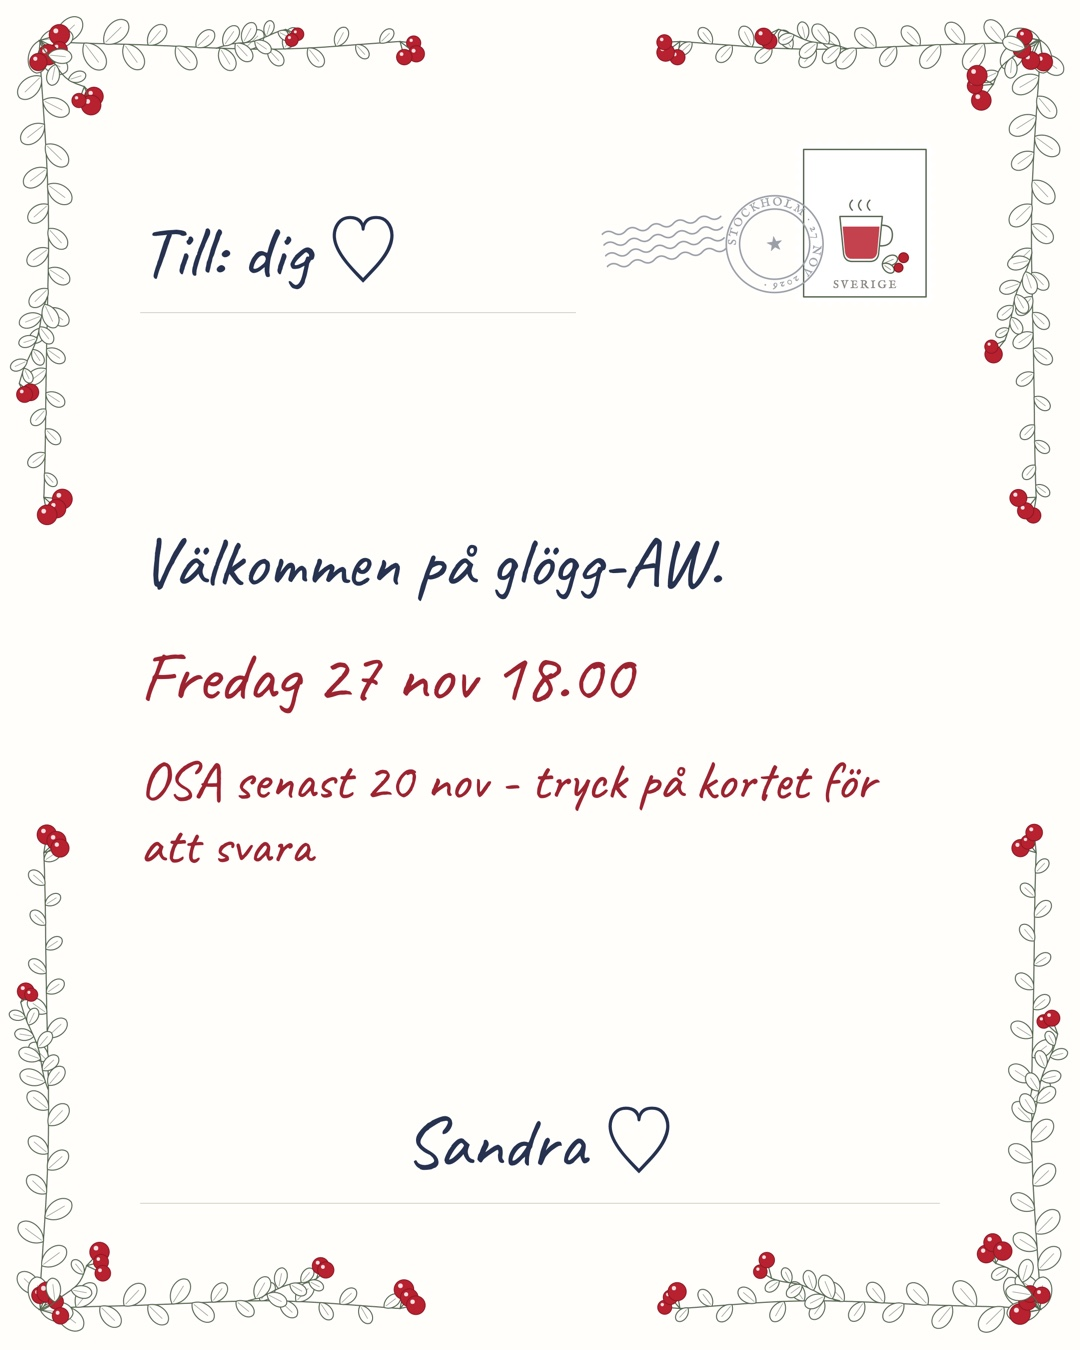
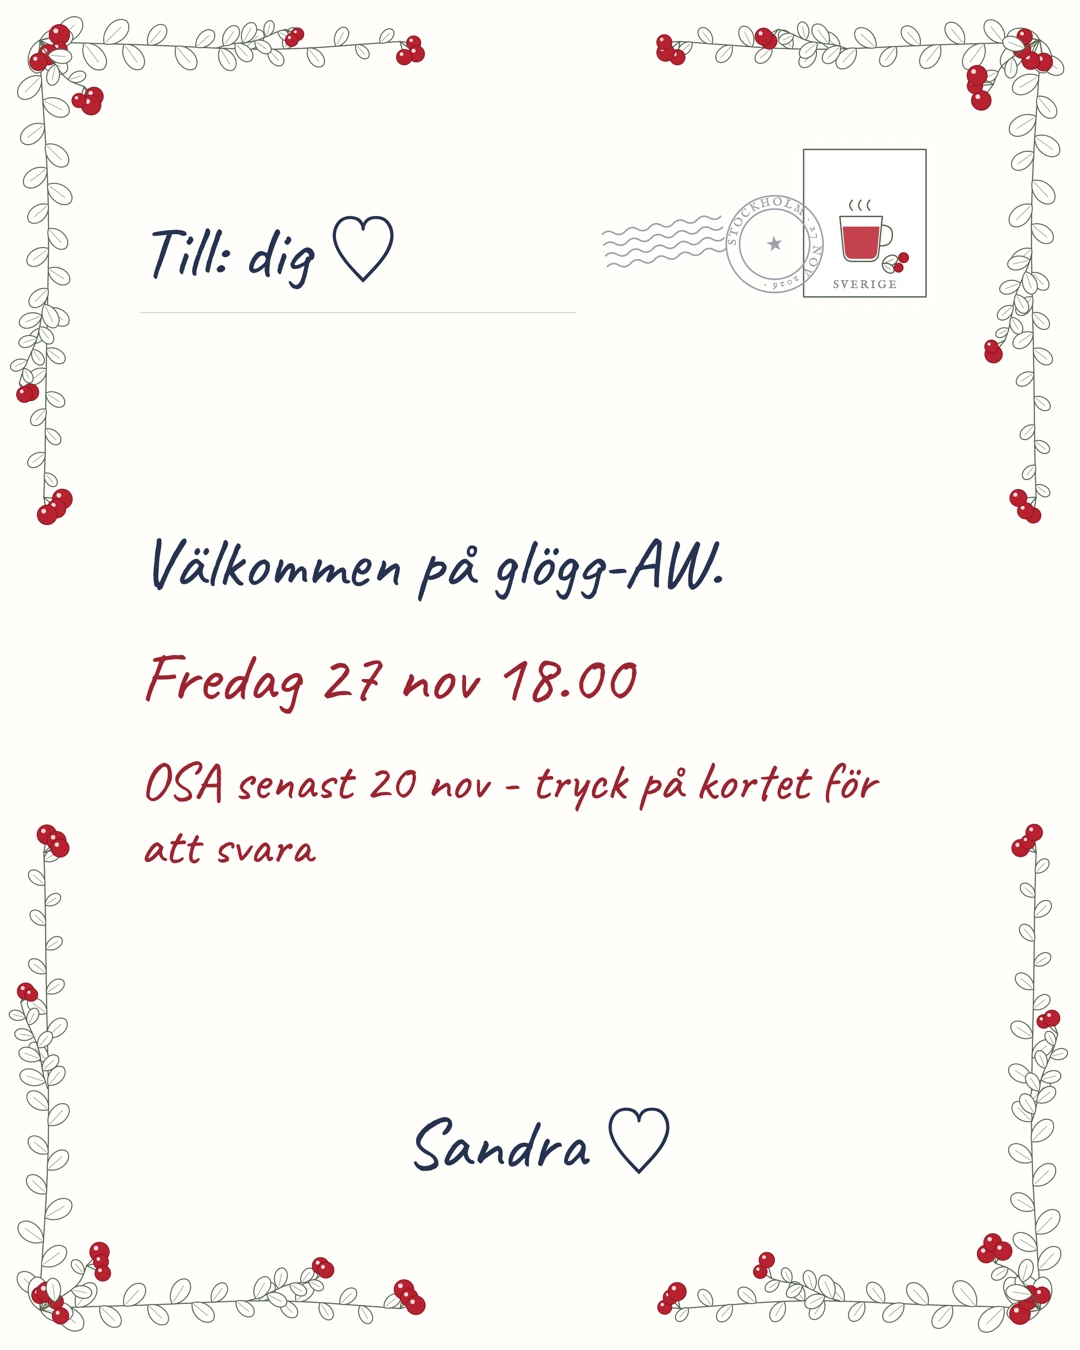
No line under the signature

diff --git a/t/sandra-stmfy/index.html b/t/sandra-stmfy/index.html
@@ -8,7 +8,7 @@
 <meta property="og:type" content="website">
 <meta property="og:title" content="Glögg efter jobbet 🍷">
 <meta property="og:description" content="Fredag 27 november – tryck här för att svara">
-<meta property="og:image" content="https://sandragrennard-hash.github.io/glogg/t/sandra-stmfy/card.jpg?v=1793714121">
+<meta property="og:image" content="https://sandragrennard-hash.github.io/glogg/t/sandra-stmfy/card.jpg?v=1793714228">
 <meta property="og:image:width" content="1080">
 <meta property="og:image:height" content="1350">
 <meta name="twitter:card" content="summary_large_image">

diff --git a/index.html b/index.html
@@ -8,7 +8,7 @@
 <meta property="og:type" content="website">
 <meta property="og:title" content="Glögg efter jobbet 🍷">
 <meta property="og:description" content="Fredag 27 november – tryck här för att svara">
-<meta property="og:image" content="https://sandragrennard-hash.github.io/glogg/card-sv.jpg?v=5">
+<meta property="og:image" content="https://sandragrennard-hash.github.io/glogg/card-sv.jpg?v=6">
 <meta property="og:image:width" content="1080">
 <meta property="og:image:height" content="1350">
 <meta name="twitter:card" content="summary_large_image">

diff --git a/en/index.html b/en/index.html
@@ -8,7 +8,7 @@
 <meta property="og:type" content="website">
 <meta property="og:title" content="Glögg after work 🍷">
 <meta property="og:description" content="Friday 27 November – tap here to reply">
-<meta property="og:image" content="https://sandragrennard-hash.github.io/glogg/card-en.jpg?v=5">
+<meta property="og:image" content="https://sandragrennard-hash.github.io/glogg/card-en.jpg?v=6">
 <meta property="og:image:width" content="1080">
 <meta property="og:image:height" content="1350">
 <meta name="twitter:card" content="summary_large_image">

diff --git a/card.html b/card.html
@@ -18,7 +18,7 @@
   .post .stamp { width: 150px; height: 178px; }
   .line { font-size: 72px; padding-bottom: 10px; border-bottom: 1px solid var(--rule); }
   .top .line { flex: 1; }
-  .from { text-align: center; }
+  .from { text-align: center; border-bottom: 0; }
   .msg { font-size: 70px; line-height: 1.2; margin: auto 0; }
   .msg .when { margin-top: 30px; color: var(--berry-ink); }
   .msg .osa { margin-top: 30px; font-size: 54px; color: var(--berry-ink); }
